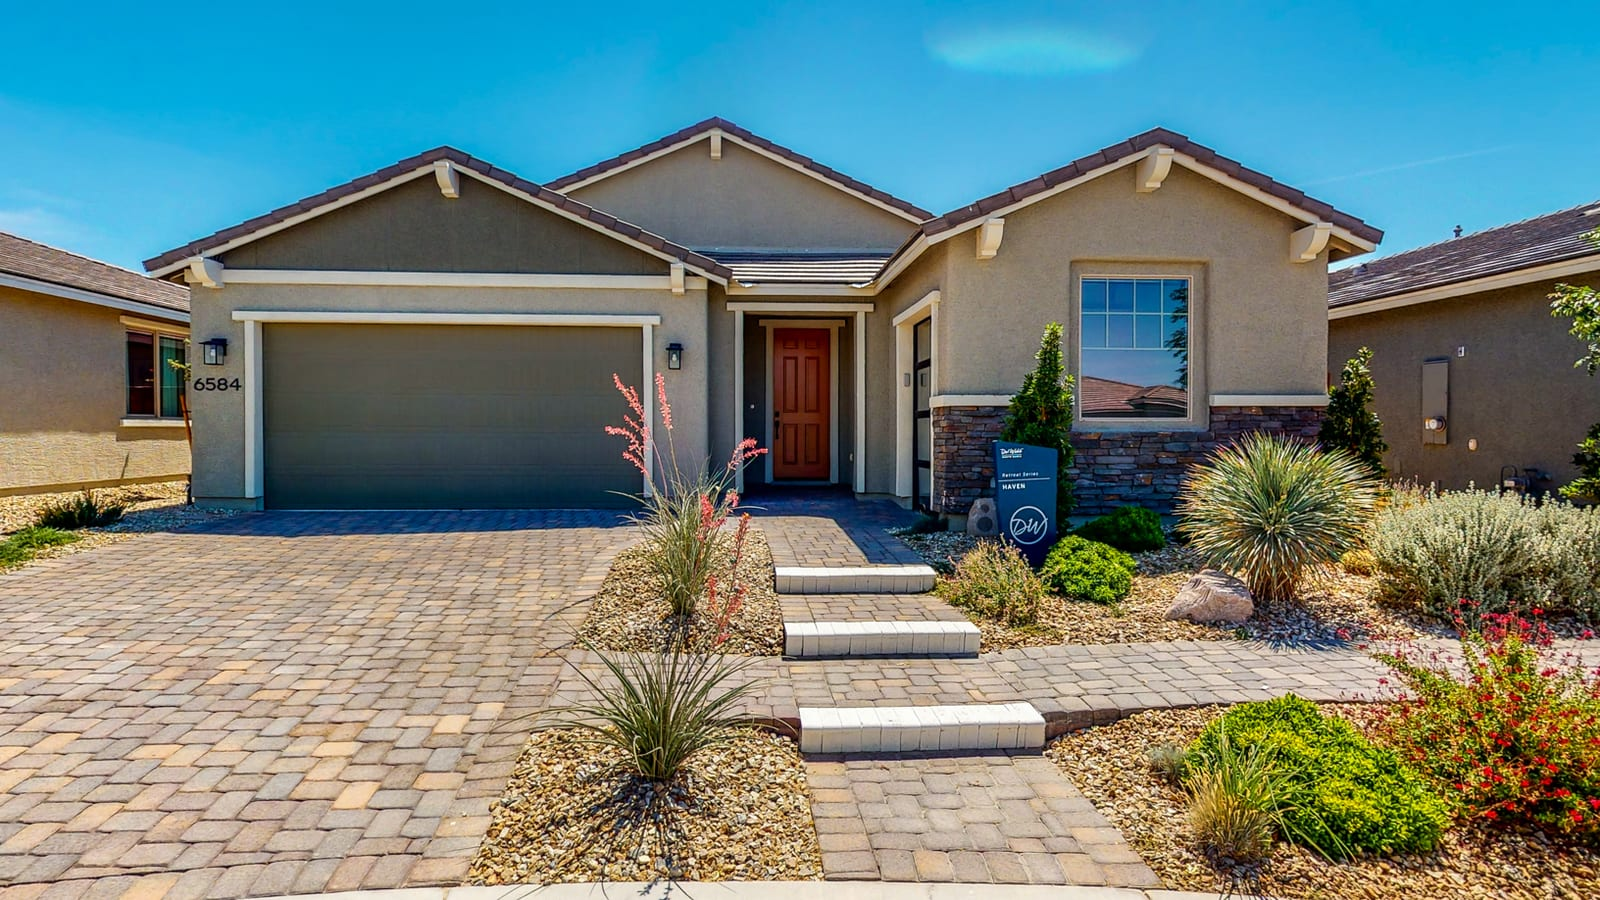
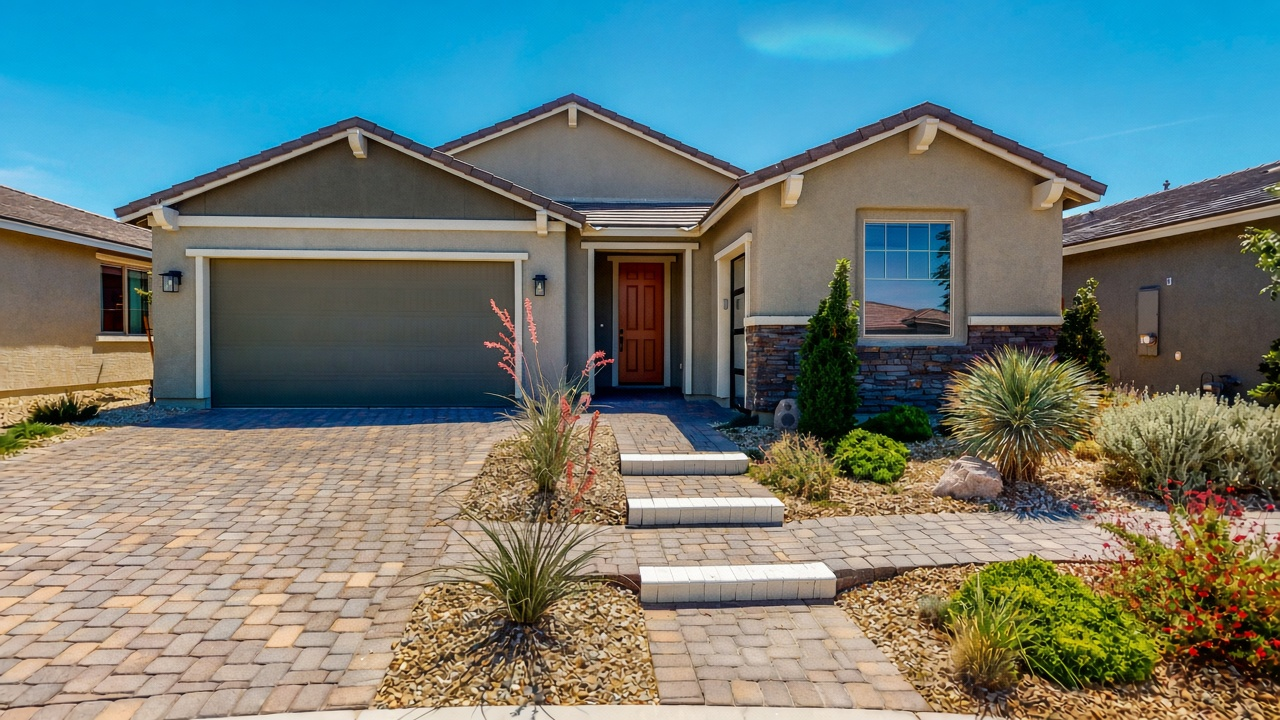
Replace placeholder floor-plan and blog photos with heading-matched images.
Cottage keeps the real Haven 6584 exterior. Classic and Retreat cards, the eight other named plans, pickleball overhead, and blog H1 thumbs now use generated photos in the same North Ranch architectural language instead of aerials, pool renderings, book stacks, and tiny AVIFs.

diff --git a/src/app/blog/page.tsx b/src/app/blog/page.tsx
@@ -46,7 +46,7 @@ const blogPosts = [
     excerpt:
       "Discover what makes Del Webb North Ranch the premier 55+ community in North Las Vegas. From resort-style amenities to a vibrant social scene, learn why so many active adults choose to call this place home.",
     date: "2024-01-15",
-    image: "/images/blog/blog-01.jpg",
+    image: "/images/blog/welcome.jpg",
     category: "Community",
   },
   {
@@ -55,7 +55,7 @@ const blogPosts = [
     excerpt:
       "All homes at Del Webb North Ranch are single-story, and there's a good reason. Learn why this design choice matters for active adults and how it enhances your quality of life now and in the future.",
     date: "2024-01-10",
-    image: "/images/blog/blog-02.jpg",
+    image: "/images/blog/single-story.jpg",
     category: "Homes",
   },
   {
@@ -64,7 +64,7 @@ const blogPosts = [
     excerpt:
       "Nevada's lack of state income tax is a major draw for retirees. Discover how moving to Nevada can help your retirement dollars stretch further.",
     date: "2024-01-05",
-    image: "/images/blog/blog-03.jpg",
+    image: "/images/blog/taxes.jpg",
     category: "Lifestyle",
   },
   {
@@ -73,7 +73,7 @@ const blogPosts = [
     excerpt:
       "From pickleball to book clubs, discover the wide variety of clubs and activities available at Del Webb North Ranch. There's something for everyone.",
     date: "2023-12-20",
-    image: "/images/blog/post-01.jpg",
+    image: "/images/blog/clubs.jpg",
     category: "Lifestyle",
   },
   {
@@ -82,7 +82,7 @@ const blogPosts = [
     excerpt:
       "With 9 floor plans across three series, how do you choose? This guide helps you understand the differences and find the perfect fit for your lifestyle.",
     date: "2023-12-15",
-    image: "/images/blog/post-02.jpg",
+    image: "/images/blog/floor-plans.jpg",
     category: "Homes",
   },
   {
@@ -91,7 +91,7 @@ const blogPosts = [
     excerpt:
       "Hear from residents about their first year at Del Webb North Ranch. Learn what surprised them, what they love, and what advice they have for newcomers.",
     date: "2023-12-10",
-    image: "/images/blog/post-03.jpg",
+    image: "/images/blog/first-year.jpg",
     category: "Community",
   },
 ];

diff --git a/src/lib/floor-plans.ts b/src/lib/floor-plans.ts
@@ -33,7 +33,7 @@ export const floorPlans: FloorPlan[] = [
       'Covered patio',
       'Energy-efficient design',
     ],
-    imageUrl: '/images/floor-plans/haven-1.avif',
+    imageUrl: '/images/homes/sanctuary-cottage.jpg',
   },
   {
     slug: 'haven',
@@ -53,7 +53,7 @@ export const floorPlans: FloorPlan[] = [
       'Great room design',
       'Optional den',
     ],
-    imageUrl: '/images/floor-plans/haven.avif',
+    imageUrl: '/images/homes/haven-6584.jpg',
   },
   // Classic Series
   {
@@ -74,7 +74,7 @@ export const floorPlans: FloorPlan[] = [
       'Modern kitchen design',
       'Extended covered patio',
     ],
-    imageUrl: '/images/floor-plans/classic-getaway.jpg',
+    imageUrl: '/images/homes/explore-classic.jpg',
   },
   {
     slug: 'journey',
@@ -94,7 +94,7 @@ export const floorPlans: FloorPlan[] = [
       'Spacious great room',
       'Premium finishes available',
     ],
-    imageUrl: '/images/floor-plans/1684714983259.jpeg',
+    imageUrl: '/images/homes/journey-classic.jpg',
   },
   {
     slug: 'pursuit',
@@ -114,7 +114,7 @@ export const floorPlans: FloorPlan[] = [
       'Gourmet kitchen options',
       'Extended outdoor living',
     ],
-    imageUrl: '/images/floor-plans/1738799751114.jpeg',
+    imageUrl: '/images/homes/pursuit-classic.jpg',
   },
   // Retreat Series
   {
@@ -135,7 +135,7 @@ export const floorPlans: FloorPlan[] = [
       'Large covered patio',
       'Gourmet kitchen',
     ],
-    imageUrl: '/images/floor-plans/14280680_web1_copy_CH-05-1-1-1.webp',
+    imageUrl: '/images/homes/stellar-retreat.jpg',
   },
   {
     slug: 'mystique',
@@ -155,7 +155,7 @@ export const floorPlans: FloorPlan[] = [
       'Luxury master suite',
       'Designer finishes',
     ],
-    imageUrl: '/images/floor-plans/retreat-haven.jpg',
+    imageUrl: '/images/homes/mystique-retreat.jpg',
   },
   {
     slug: 'reverence',
@@ -175,7 +175,7 @@ export const floorPlans: FloorPlan[] = [
       'Multiple living areas',
       'Premium outdoor spaces',
     ],
-    imageUrl: '/images/floor-plans/haven-2.avif',
+    imageUrl: '/images/homes/reverence-retreat.jpg',
   },
 ];
 

diff --git a/src/lib/listings.ts b/src/lib/listings.ts
@@ -33,7 +33,7 @@ export async function getDelWebbListings(): Promise<Listing[]> {
       bathrooms: 2,
       squareFeet: 1425,
       yearBuilt: 2020,
-      imageUrl: "/images/floor-plans/haven-1.avif",
+      imageUrl: "/images/homes/haven-6584.jpg",
       status: "active",
       description: "Beautiful single-story home in Del Webb North Ranch",
       floorPlan: "Haven",
@@ -50,7 +50,7 @@ export async function getDelWebbListings(): Promise<Listing[]> {
       bathrooms: 2.5,
       squareFeet: 1750,
       yearBuilt: 2021,
-      imageUrl: "/images/floor-plans/haven-2.avif",
+      imageUrl: "/images/homes/stellar-retreat.jpg",
       status: "active",
       description: "Spacious retreat series home with den",
       floorPlan: "Retreat Haven",
@@ -67,7 +67,7 @@ export async function getDelWebbListings(): Promise<Listing[]> {
       bathrooms: 2,
       squareFeet: 1285,
       yearBuilt: 2019,
-      imageUrl: "/images/floor-plans/haven.avif",
+      imageUrl: "/images/homes/sanctuary-cottage.jpg",
       status: "active",
       description: "Cozy cottage series home perfect for downsizing",
       floorPlan: "Cottage Haven",

diff --git a/components/sections/value-props.tsx b/components/sections/value-props.tsx
@@ -48,7 +48,7 @@ export default function ValuePropsSection() {
     text: string;
   }> = [
     {
-      mediaKey: "buyers.hero",
+      mediaKey: "blog.singleStory",
       icon: <Home className="w-8 h-8 text-primary" />,
       title: "Single-Story Living, Zero Compromise",
       text: "All nine floor plans are single-level with 2-3 bedrooms, open layouts, and attached 2-car garages. Homes range from 1,285 to 2,015 square feet.",
@@ -60,7 +60,7 @@ export default function ValuePropsSection() {
       text: "Unlike newer developments still waiting on amenities, Del Webb North Ranch is fully built. The resort pool is open. The fitness center is ready. The pickleball courts are waiting.",
     },
     {
-      mediaKey: "homeValue.hero",
+      mediaKey: "blog.taxes",
       icon: <DollarSign className="w-8 h-8 text-primary" />,
       title: "Keep More of Your Money",
       text: "Nevada has no state income tax. HOA fees are $215/month with no special improvement districts. Your retirement dollars stretch further here.",

diff --git a/components/sections/home-collections.tsx b/components/sections/home-collections.tsx
@@ -60,21 +60,21 @@ export default function HomeCollectionsSection() {
       specs: "1,285-1,509 sq ft",
       description:
         "Efficient, comfortable, easy to maintain. Perfect if you want cozy without cramped.",
-      imagePath: "/images/floor-plans/haven.avif",
+      imagePath: "/images/homes/haven-6584.jpg",
     },
     {
       title: "Classic Series",
       specs: "1,451-1,770 sq ft",
       description:
         "Room to spread out. Optional dens for hobbies or home offices.",
-      imagePath: "/images/floor-plans/classic-getaway.jpg",
+      imagePath: "/images/homes/classic-series.jpg",
     },
     {
       title: "Retreat Series",
       specs: "1,716-2,015 sq ft",
       description:
         "Spacious living for those who love to entertain or want extra room for visiting family.",
-      imagePath: "/images/floor-plans/retreat-haven.jpg",
+      imagePath: "/images/homes/stellar-retreat.jpg",
     },
   ];
 

diff --git a/src/app/floor-plans/[slug]/page.tsx b/src/app/floor-plans/[slug]/page.tsx
@@ -383,13 +383,13 @@ export default async function FloorPlanPage({
           <div className="container mx-auto px-4">
             <div className="max-w-4xl mx-auto">
               <h2 className="text-2xl md:text-3xl font-bold text-primary mb-6 text-center font-playfair">
-                Floor Plan Layout
+                Home Exterior
               </h2>
               <div className="bg-bg-light rounded-lg p-8 min-h-[400px] flex items-center justify-center">
                 {plan.imageUrl ? (
                   <Image
                     src={plan.imageUrl}
-                    alt={`${plan.name} floor plan layout`}
+                    alt={`${plan.name} ${plan.series} Series single-story home exterior at Del Webb North Ranch in North Las Vegas`}
                     width={800}
                     height={600}
                     className="rounded-lg"

diff --git a/src/app/floor-plans/page.tsx b/src/app/floor-plans/page.tsx
@@ -59,12 +59,11 @@ function FloorPlanCard({
   return (
     <ScrollAnimation delay={index * 50}>
       <div className="bg-white rounded-lg shadow-two hover:shadow-three transition-shadow overflow-hidden">
-        {/* Image Placeholder */}
         <div className="relative h-64 bg-bg-light">
           {plan.imageUrl ? (
             <Image
               src={plan.imageUrl}
-              alt={`${plan.name} floor plan - ${plan.sqft} sq ft`}
+              alt={`${plan.name} ${plan.series} Series single-story home, ${plan.sqft} sq ft at Del Webb North Ranch in North Las Vegas`}
               fill
               className="object-cover"
               placeholder="blur"

diff --git a/components/sections/solution-section.tsx b/components/sections/solution-section.tsx
@@ -11,7 +11,7 @@ export default function SolutionSection() {
             <ScrollAnimation>
               <div className="relative aspect-square rounded-lg overflow-hidden shadow-three bg-bg-light">
                 <MediaImage
-                  mediaKey="place.primary"
+                  mediaKey="community.fullAerial"
                   fill
                   className="object-cover"
                   sizes="(max-width: 768px) 100vw, 50vw"

diff --git a/components/sections/explore-community.tsx b/components/sections/explore-community.tsx
@@ -38,7 +38,7 @@ const exploreCards = [
     description: 'Explore 1,285-2,015 sq ft designs across 3 collections',
     href: '/floor-plans',
     icon: Layout,
-    image: '/images/hero/campus-overhead.jpg',
+    image: '/images/blog/floor-plans.jpg',
   },
   {
     title: 'Amenities',
